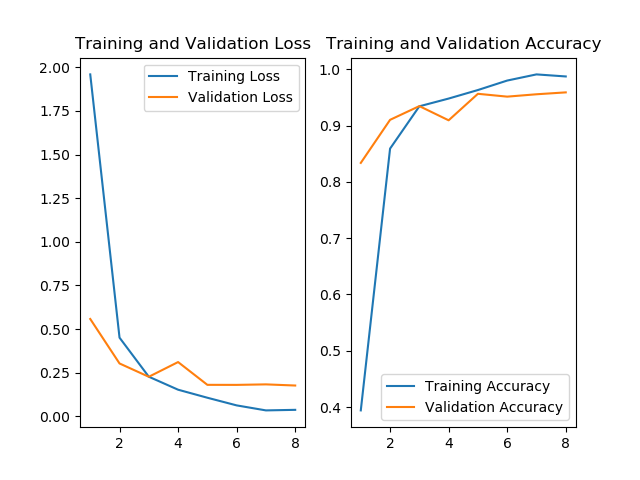
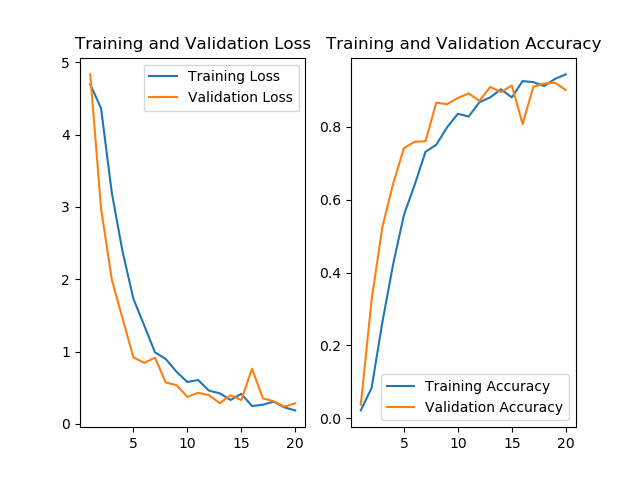
🌈

diff --git a/fit_v2.py b/fit_v2.py
@@ -1,8 +1,11 @@
+# 分批次加载数据，无灰度化操作，图片格式为(64, 64, 3)
+
 from __future__ import print_function
 import os
 from keras.preprocessing.image import ImageDataGenerator
 from keras.layers import Input, Dense, Dropout, Convolution2D, MaxPooling2D, Flatten
 from keras.models import Model, load_model
+import get_pyplot
 
 data_dir = 'data'
 train_data_dir = os.path.join(data_dir, 'train')
@@ -10,8 +13,8 @@ test_data_dir = os.path.join(data_dir, 'test')
 
 # dimensions of our images.
 img_width, img_height = 64, 64
-charset_size = 20
-nb_nb_epoch = 20
+charset_size = 100
+nb_nb_epoch = 18
 
 
 def train(model):
@@ -27,24 +30,33 @@ def train(model):
         train_data_dir,
         target_size=(img_width, img_height),
         batch_size=1024,
-        color_mode="grayscale",
+        # color_mode="grayscale",
         class_mode='categorical')
     validation_generator = test_datagen.flow_from_directory(
         test_data_dir,
         target_size=(img_width, img_height),
         batch_size=1024,
-        color_mode="grayscale",
+        # color_mode="grayscale",
         class_mode='categorical')
 
     model.compile(loss='categorical_crossentropy',
                   optimizer='rmsprop',
                   metrics=['accuracy'])
-    model.fit_generator(train_generator,
-                        nb_epoch=nb_nb_epoch,
-                        validation_data=validation_generator,)
+    history = model.fit_generator(train_generator,
+                                  nb_epoch=nb_nb_epoch,
+                                  validation_data=validation_generator,)
+
+    epochs_range = range(1, nb_nb_epoch + 1)
+    train_loss = history.history['loss']
+    val_loss = history.history['val_loss']
+    train_accuracy = history.history['accuracy']
+    val_accuracy = history.history['val_accuracy']
+
+    # 绘制图表
+    get_pyplot.show(epochs_range, train_loss, val_loss, train_accuracy, val_accuracy)
 
 
-def build_model(include_top=True, input_shape=(64, 64, 1), classes=charset_size):
+def build_model(include_top=True, input_shape=(64, 64, 3), classes=charset_size):
     img_input = Input(shape=input_shape)
     x = Convolution2D(32, 3, 3, activation='relu', border_mode='same', name='block1_conv1')(img_input)
     x = Convolution2D(32, 3, 3, activation='relu', border_mode='same', name='block1_conv2')(x)

diff --git a/predict_v2.py b/predict_v2.py
@@ -1,5 +1,7 @@
+import random
+
 import tensorflow as tf
-import get_array_2
+import get_test_array
 import numpy as np
 import matplotlib.pyplot as plt
 
@@ -23,34 +25,25 @@ def plot_image(i, predictions_array, true_label, img):
                                          class_names[true_label]),
                color=color)
 
-    print('预测结果:', class_names[predicted_label])
 
+class_names = list(range(100))
 
-def plot_value_array(i, predictions_array, true_label):
-    predictions_array, true_label = predictions_array, true_label[i]
-    plt.grid(False)
-    plt.xticks(range(20), class_names, rotation=45)
-    plt.yticks([])
-    thisplot = plt.bar(range(20), predictions_array, color="#777777")
-    plt.ylim([0, 1])
-    predicted_label = np.argmax(predictions_array)
+model = tf.keras.models.load_model('Chinese_recognition_model_v2.h5')
 
-    thisplot[predicted_label].set_color('red')
-    thisplot[true_label].set_color('blue')
+(test_image, test_label) = get_test_array.load_data('data/test/')
 
-
-class_names = ['líng', 'yī', 'èr', 'sān', 'sì', 'wǔ', 'liù', 'qī', 'bā', 'jiǔ', 'zhào', 'qìng', 'xué', 'yuàn',
-               'jì', 'suàn', 'jī', 'yáng', 'xiān', 'shēng']
-
-model = tf.keras.models.load_model('Chinese_recognition_model.h5')
-
-(test_image, test_label) = get_array_2.load_data('data/test/')
+index = [x for x in range(len(test_label))]
+random.shuffle(index)
+test_image = test_image[index]
+test_label = test_label[index]
 
 predictions = model.predict(test_image)
 
-i = 1000
-plt.subplot(2, 1, 1)
-plot_image(i, predictions[i], test_label, test_image)
-plt.subplot(2, 1, 2)
-plot_value_array(i, predictions[i],  test_label)
+# Plot the first X test images, their predicted labels, and the true labels.
+# Color correct predictions in blue and incorrect predictions in red.
+plt.figure(figsize=(10, 10))
+for i in range(36):
+  plt.subplot(6, 6, i+1)
+  plot_image(i, predictions[i], test_label, test_image)
+plt.tight_layout()
 plt.show()

diff --git a/fit_v3.py b/fit_v3.py
@@ -1,0 +1,38 @@
+#
+
+import get_model
+import get_train_array
+import get_test_array
+import time
+from keras import models
+
+
+model = get_model.get_model()  # 选择模型
+
+# 加载训练数据和测试数据
+(train_image, val_image, train_label, val_label) = get_train_array.load_data('data/train/')
+(test_image, test_label) = get_test_array.load_data('data/test/')
+
+# 训练, fit方法自带shuffle随机读取
+model.fit(train_image, train_label, validation_data=(val_image, val_label))
+
+test_scores = model.evaluate(test_image, test_label)
+test_accuracy = test_scores[1]
+
+# 将模型保存为 HDF5 文件
+strTime = time.strftime("%Y-%m-%d-%H:%M:%S", time.localtime())
+print('Time:', strTime, '   ', 'Test Accuracy:', test_accuracy)
+model.save('Chinese_recognition_model_v3.h5')
+
+
+for i in range(1, 8):
+    print()
+    model = models.load_model('Chinese_recognition_model_v3.h5')
+    model.fit(train_image, train_label)
+    test_scores = model.evaluate(test_image, test_label)
+    test_accuracy = test_scores[1]
+    strTime=time.strftime("%Y-%m-%d-%H:%M:%S", time.localtime())
+    print('Time:', strTime, '   ', 'Test Accuracy:', test_accuracy)
+    model.save('Chinese_recognition_model_v3.h5')
+    if test_accuracy > 0.95:
+        break

diff --git a/fit.py b/fit.py
@@ -1,16 +1,17 @@
+# 直接一次性加载全部数据
+
 import get_model
 import get_pyplot
-import get_array_1
-import get_array_2
+import get_train_array
+import get_test_array
 
-
-epochs = 8  # 选择批次
+epochs = 10  # 选择批次
 
 model = get_model.get_model()  # 选择模型
 
 # 加载训练数据和测试数据
-(train_image, val_image, train_label, val_label) = get_array_1.load_data('data/train/')
-(test_image, test_label) = get_array_2.load_data('data/test/')
+(train_image, val_image, train_label, val_label) = get_train_array.load_data('data/train/')
+(test_image, test_label) = get_test_array.load_data('data/test/')
 
 # 训练, fit方法自带shuffle随机读取
 history = model.fit(

diff --git a/predict_v3.py b/predict_v3.py
@@ -6,10 +6,17 @@ import matplotlib.image as mpimg
 
 model = tf.keras.models.load_model('Chinese_recognition_model.h5')
 
-img = mpimg.imread('data/test/00000/63083.png')
+img = mpimg.imread('data/test/00011/522.png')
 img2 = cv2.resize(img, (64, 64))
 img3 = np.zeros((1, img2.shape[0], img2.shape[1], img2.shape[2]))
 img3[0, :] = img2
 
-pre = model.predict_classes(img3)  # 预测
-print('预测结果:', pre)
+pre = model.predict(img3)  # 预测
+
+predicted_label = np.argmax(pre[0])
+
+class_names = list(range(100))
+
+print(class_names[predicted_label])
+print(100 * np.max(pre[0]))
+

diff --git a/labels.py b/labels.py
@@ -1,0 +1,12 @@
+import get_train_array
+import get_test_array
+
+# 加载训练数据和测试数据
+(train_image, val_image, train_label, val_label) = get_train_array.load_data('data/train/')
+(test_image, test_label) = get_test_array.load_data('data/test/')
+
+print(train_label[0: 100])
+print('')
+print(val_label[0: 100])
+print('')
+print(test_label[0: 100])

diff --git a/get_model.py b/get_model.py
@@ -25,7 +25,7 @@ def get_model():
     model.add(Dense(512, activation='relu'))
 
     model.add(Dropout(0.2))
-    model.add(Dense(20, activation='softmax'))
+    model.add(Dense(100, activation='softmax'))
 
     model.summary()
 
